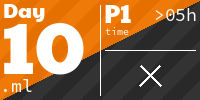
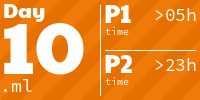
update: solution for day10 part2 using the idea from Mark Elvers advent of code repo. Linear Programming libraries, lp and lp-glpk were able to help me solve the problem in less than one second. Elapsed time: 0.2455 seconds

diff --git a/README.md b/README.md
@@ -4,7 +4,7 @@
 
 <!-- AOC TILES BEGIN -->
 <h1 align="center">
-  2025 - 19 ⭐ - OCaml
+  2025 - 20 ⭐ - OCaml
 </h1>
 <a href="2025/day01/day01.ml">
   <img src=".aoc_tiles/tiles/2025/01.png" width="161px">
